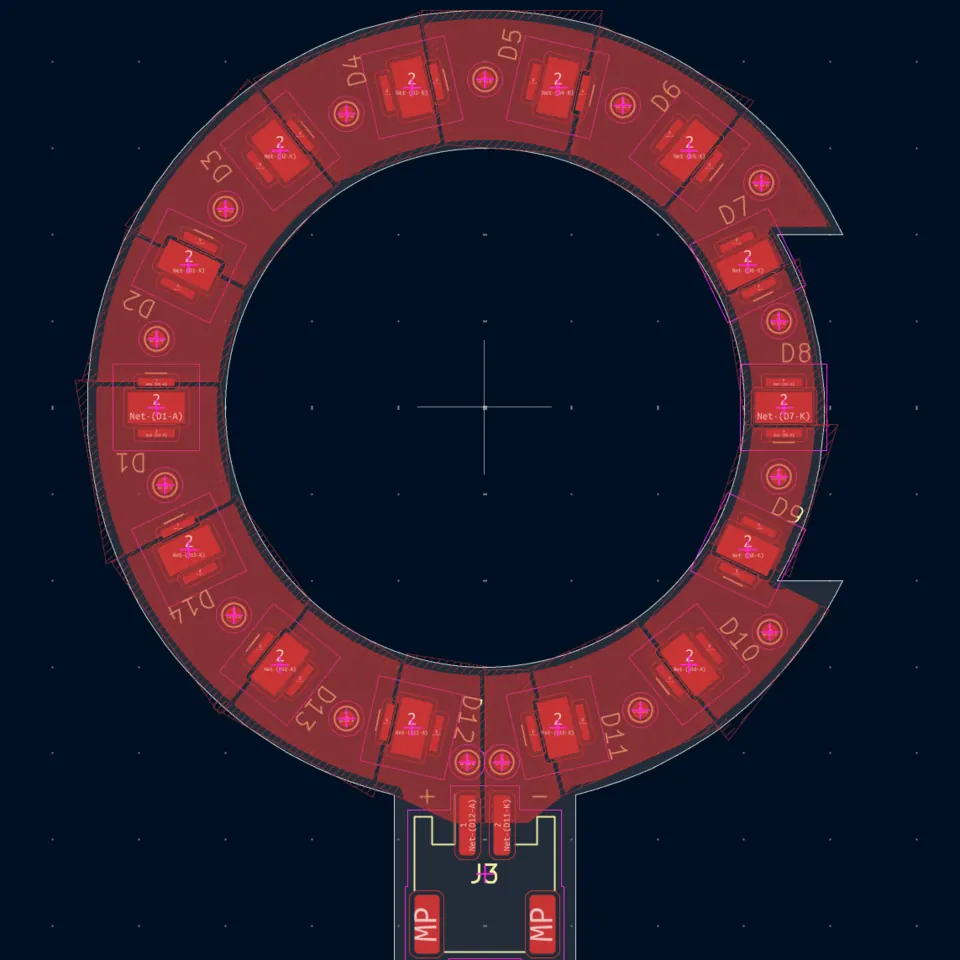
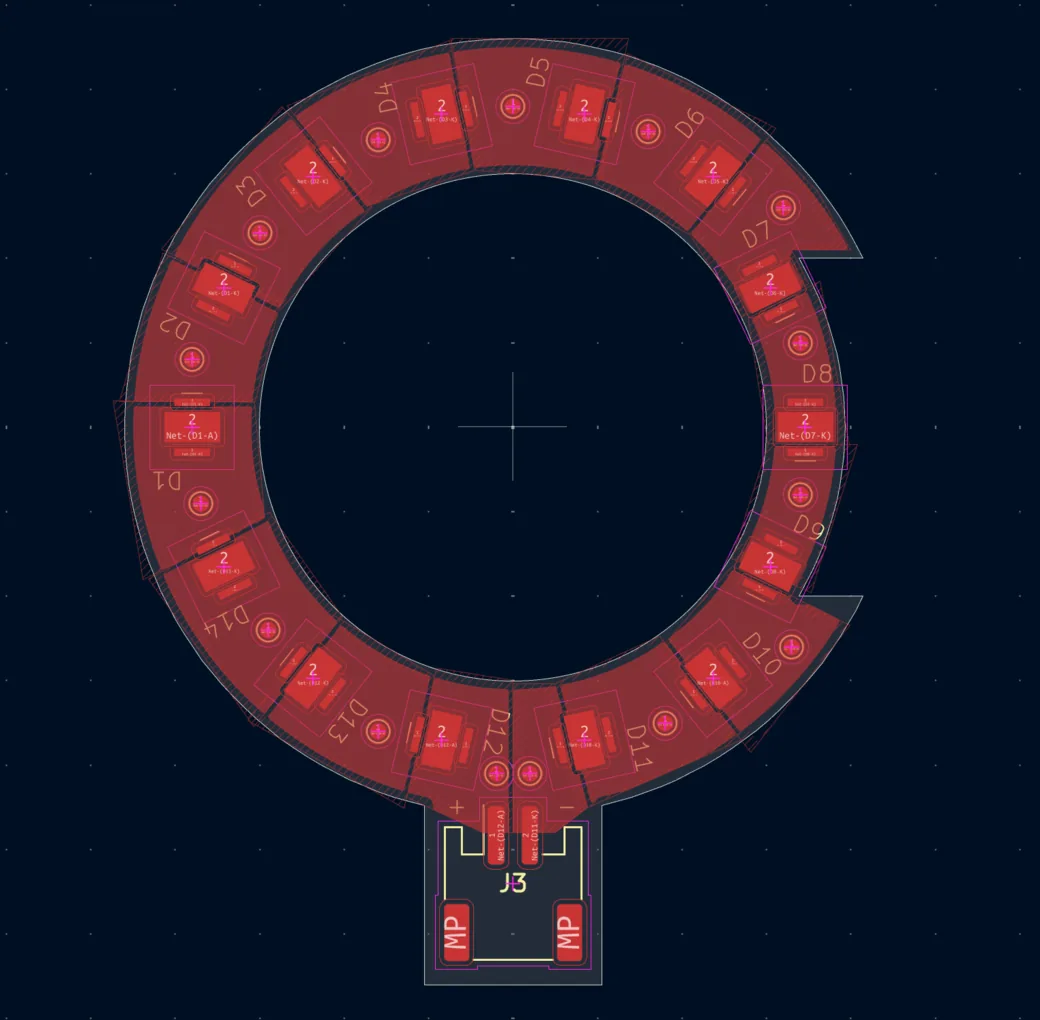
Swap in the closer v1 render and the sharper copper view
Both replacements are Samara's own crops, so they go in as uploaded:
resized only, never cropped further, and the img width/height attributes
are updated to the new natural sizes.

The pair no longer shares one aspect ratio, which had been arranged by
cropping both to 4:3 to line the captions up. Cropping a board diagram
to make a layout sit straight is the wrong trade, so the figures now
take a fixed 4:3 frame and contain the drawing inside it instead. Same
board size on screen, captions still level, nothing cut off.

Changed region(s): [[0.0625, 0.0, 0.875, 1.0], [0.4688, 0.4062, 0.5312, 0.4375]]

diff --git a/public/projects/illumination/index.html b/public/projects/illumination/index.html
@@ -91,7 +91,7 @@
 
       <div class="p-figs">
         <figure class="p-fig">
-          <img src="/assets/img/led-v1.webp?v=20261016" alt="3D render of the first version of the LED board: a C-shaped arc with LEDs mounted along it" loading="lazy" width="1198" height="898">
+          <img src="/assets/img/led-v1.webp?v=20261016" alt="3D render of the first version of the LED board: a C-shaped arc with LEDs mounted along it" loading="lazy" width="1118" height="725">
           <figcaption>v1: C-shaped board with thin traces.</figcaption>
         </figure>
         <figure class="p-fig">
@@ -117,7 +117,7 @@
           can drop in to excite different fluorophores.
         </p>
         <figure class="p-fig p-fig--solo">
-          <img src="/assets/img/led-v2-copper.webp?v=20261016" alt="Copper layer view of the ring board, showing the wide copper pours that connect neighboring LEDs in series and spread their heat" loading="lazy" width="960" height="960">
+          <img src="/assets/img/led-v2-copper.webp?v=20261016" alt="Copper layer view of the ring board, showing the wide copper pours that connect neighboring LEDs in series and spread their heat" loading="lazy" width="1040" height="1020">
           <figcaption>v2 copper: each pour connects neighboring LEDs in series and spreads their heat.</figcaption>
         </figure>
       </section>

diff --git a/public/assets/css/styles.css b/public/assets/css/styles.css
@@ -413,6 +413,10 @@ section[id]{scroll-margin-top:6.5rem}
 .p-figs{display:grid;grid-template-columns:1fr 1fr;gap:clamp(.9rem,2.4vw,1.5rem);margin:0 0 2.6rem}
 .p-fig{display:flex;flex-direction:column;gap:.55rem;margin:0}
 .p-fig img{width:100%;border-radius:var(--radius-sm);border:1px solid var(--border);background:var(--card-2)}
+/* a pair can be any two shapes, and a board diagram is not something that can
+   be cropped, so the frame takes a fixed ratio and the drawing sits whole
+   inside it. That also lines the two captions up whatever the sources are. */
+.p-figs .p-fig img{aspect-ratio:4/3;object-fit:contain}
 .p-fig figcaption{font-size:.79rem;color:var(--ink-3)}
 /* a lone figure sits in the middle of the measure rather than stretching */
 .p-fig--solo{max-width:520px;margin:2.2rem auto 0}
